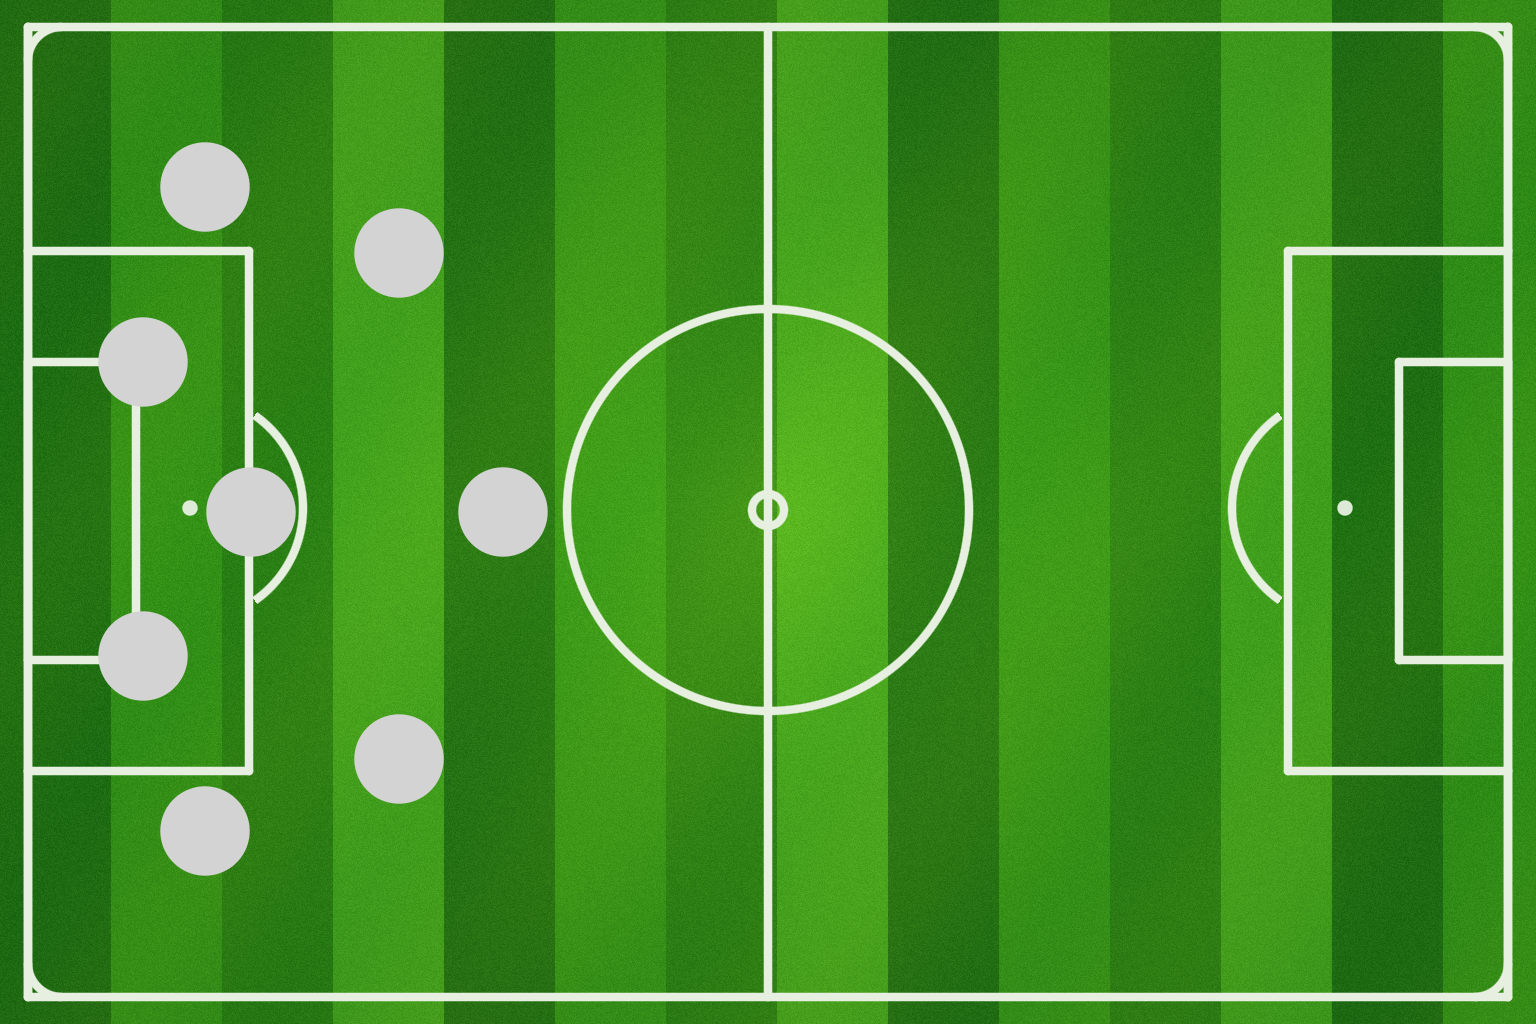
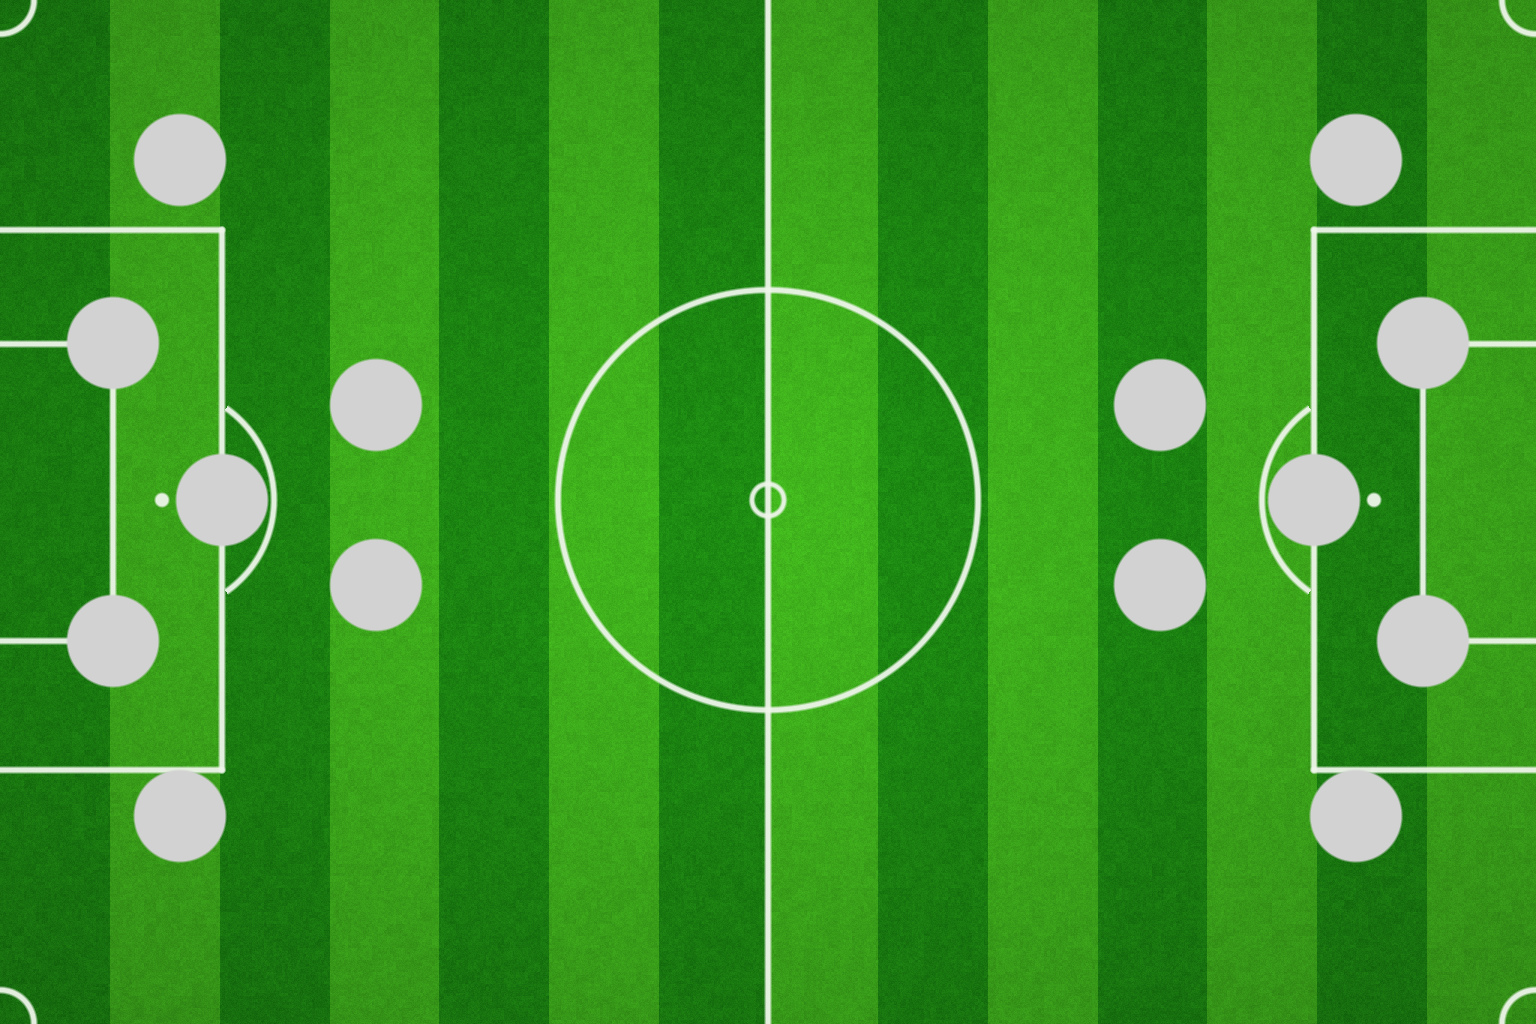
Update Binho field for seven defenders

Changed region(s): [[0.0, 0.0, 1.0, 1.0]]

diff --git a/Assets/Scripts/Binho/BinhoGameController.cs b/Assets/Scripts/Binho/BinhoGameController.cs
@@ -15,6 +15,9 @@ namespace BoardBinho
         private const float kFieldScreenFill = 0.94f;
         private const string kFieldBackgroundResourcePath = "Binho/field_background";
         private const float kFieldBackgroundPixelsPerUnit = 100f;
+        private const float kFieldBackgroundPixelWidth = 1536f;
+        private const float kFieldBackgroundPixelHeight = 1024f;
+        private const int kDefendersPerSide = 7;
         private const float kOffBoardGoalClearance = 0.22f;
         private const float kFieldLineInset = 0.08f;
         private const float kWallThickness = 0.22f;
@@ -199,7 +202,7 @@ namespace BoardBinho
 
             GUI.Label(new Rect(0f, 58f, Screen.width, 30f), GetStatusMessage(), bodyStyle);
 
-            var placementText = $"Blue defenders: {CountOccupied(m_LeftSlots)}/5    Orange defenders: {CountOccupied(m_RightSlots)}/5";
+            var placementText = $"Blue defenders: {CountOccupied(m_LeftSlots)}/{m_LeftSlots.Count}    Orange defenders: {CountOccupied(m_RightSlots)}/{m_RightSlots.Count}";
             GUI.Label(new Rect(0f, Screen.height - 46f, Screen.width, 24f), placementText, bodyStyle);
         }
 
@@ -502,15 +505,15 @@ namespace BoardBinho
             var slotRoot = new GameObject("Defender Slots");
             slotRoot.transform.SetParent(parent, false);
 
-            var fieldX = -(PitchHalfWidth - FieldLineInset);
-            var penaltyBoxFrontX = fieldX + PenaltyBoxDepth;
             var leftSlotPositions = new[]
             {
-                new Vector2(fieldX + (GoalBoxDepth * 0.6f), GoalBoxHalfHeight - ScaleY(0.16f)),
-                new Vector2(fieldX + (GoalBoxDepth * 0.6f), -GoalBoxHalfHeight + ScaleY(0.16f)),
-                new Vector2(fieldX + (PenaltyBoxDepth * 0.58f), 0f),
-                new Vector2(penaltyBoxFrontX + ScaleX(0.45f), PenaltyBoxHalfHeight - ScaleY(0.3f)),
-                new Vector2(penaltyBoxFrontX + ScaleX(0.45f), -PenaltyBoxHalfHeight + ScaleY(0.3f)),
+                FieldBackgroundPixelToWorld(180f, 160f),
+                FieldBackgroundPixelToWorld(113f, 343f),
+                FieldBackgroundPixelToWorld(222f, 500f),
+                FieldBackgroundPixelToWorld(113f, 641f),
+                FieldBackgroundPixelToWorld(180f, 816f),
+                FieldBackgroundPixelToWorld(376f, 405f),
+                FieldBackgroundPixelToWorld(376f, 585f),
             };
 
             for (var i = 0; i < leftSlotPositions.Length; i++)
@@ -518,6 +521,13 @@ namespace BoardBinho
                 CreateSlot(slotRoot.transform, PlayerSide.Left, $"Left Slot {i + 1}", leftSlotPositions[i]);
                 CreateSlot(slotRoot.transform, PlayerSide.Right, $"Right Slot {i + 1}", new Vector2(-leftSlotPositions[i].x, leftSlotPositions[i].y));
             }
+        }
+
+        private Vector2 FieldBackgroundPixelToWorld(float x, float y)
+        {
+            return new Vector2(
+                Mathf.Lerp(-ScreenHalfWidth, ScreenHalfWidth, x / kFieldBackgroundPixelWidth),
+                Mathf.Lerp(ScreenHalfHeight, -ScreenHalfHeight, y / kFieldBackgroundPixelHeight));
         }
 
         private void ConfigureCamera()
@@ -591,8 +601,13 @@ namespace BoardBinho
             slotRoot.transform.SetParent(parent, false);
             slotRoot.transform.localPosition = new Vector3(position.x, position.y, 0f);
 
-            var fill = CreateDisc(slotRoot.transform, "Slot Fill", Vector2.zero, DefenderRadius * 2.45f, side == PlayerSide.Left ? new Color(kLeftColor.r, kLeftColor.g, kLeftColor.b, 0.16f) : new Color(kRightColor.r, kRightColor.g, kRightColor.b, 0.16f), 2);
-            var outline = CreateCircleLine(slotRoot.transform, "Slot Outline", Vector2.zero, DefenderRadius * 1.25f, kLineColor, Scale(0.05f), 28, 0f, 360f);
+            GameObject fill = null;
+            LineRenderer outline = null;
+            if (m_FieldBackgroundSprite == null)
+            {
+                fill = CreateDisc(slotRoot.transform, "Slot Fill", Vector2.zero, DefenderRadius * 2.45f, side == PlayerSide.Left ? new Color(kLeftColor.r, kLeftColor.g, kLeftColor.b, 0.16f) : new Color(kRightColor.r, kRightColor.g, kRightColor.b, 0.16f), 2);
+                outline = CreateCircleLine(slotRoot.transform, "Slot Outline", Vector2.zero, DefenderRadius * 1.25f, kLineColor, Scale(0.05f), 28, 0f, 360f);
+            }
 
             var defender = new GameObject("Defender");
             defender.transform.SetParent(slotRoot.transform, false);
@@ -1030,7 +1045,7 @@ namespace BoardBinho
             switch (m_Phase)
             {
                 case MatchPhase.Setup:
-                    return "Place 5 robot defenders on each half: 2 in front of the goal box, 1 in the middle of the penalty box, and 2 just outside the penalty box.";
+                    return "Place " + kDefendersPerSide + " robot defenders on each half, one on each gray placement spot.";
                 case MatchPhase.ReadyToShoot:
                     return GetTurnLabel() + " to shoot. Swipe across the ball in the direction you want it to travel; faster swipes hit harder.";
                 case MatchPhase.Aiming:
@@ -1207,10 +1222,18 @@ namespace BoardBinho
             public void SetOccupied(bool occupied)
             {
                 var tint = Side == PlayerSide.Left ? kLeftColor : kRightColor;
-                var fillRenderer = SlotFill.GetComponent<SpriteRenderer>();
-                fillRenderer.color = occupied ? new Color(tint.r, tint.g, tint.b, 0.08f) : new Color(tint.r, tint.g, tint.b, 0.16f);
-                SlotOutline.startColor = occupied ? new Color(1f, 1f, 1f, 0.4f) : new Color(1f, 1f, 1f, 0.92f);
-                SlotOutline.endColor = SlotOutline.startColor;
+                if (SlotFill != null)
+                {
+                    var fillRenderer = SlotFill.GetComponent<SpriteRenderer>();
+                    fillRenderer.color = occupied ? new Color(tint.r, tint.g, tint.b, 0.08f) : new Color(tint.r, tint.g, tint.b, 0.16f);
+                }
+
+                if (SlotOutline != null)
+                {
+                    SlotOutline.startColor = occupied ? new Color(1f, 1f, 1f, 0.4f) : new Color(1f, 1f, 1f, 0.92f);
+                    SlotOutline.endColor = SlotOutline.startColor;
+                }
+
                 DefenderRoot.SetActive(occupied);
                 DefenderCollider.enabled = occupied;
             }
